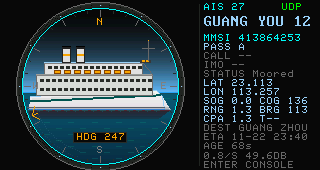
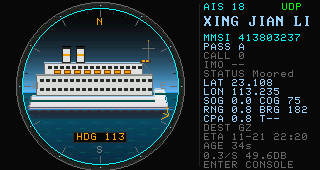
Shape the AIS hull bow and stern
Add a raised forecastle break and a raked stem, take the stern in with a
shaded transom, and keep the bulwark rail along both deck edges. Refresh the
dossier screenshot with XING JIAN LI.

diff --git a/src/ui/ais_portrait.cpp b/src/ui/ais_portrait.cpp
@@ -17,8 +17,9 @@ constexpr int WATERLINE = 109;
 constexpr int DECK = 96;
 
 constexpr int STERN = 30;
-constexpr int BOW_DECK = 156;
-constexpr int BOW_TOP = 90;
+constexpr int BOW_DECK = 164;
+constexpr int BOW_TOP = 89;
+constexpr int FORECASTLE_X = 154;
 constexpr int KEEL = 118;
 
 constexpr double kPi = 3.14159265358979323846;
@@ -154,20 +155,20 @@ uint16_t seaColorAt(int y) {
 }
 
 int deckY(int x) {
-    return DECK - (x - STERN) * (DECK - BOW_TOP) / (BOW_DECK - STERN);
+    return (x <= FORECASTLE_X) ? DECK : BOW_TOP;
 }
 
 /** Rows of the hull: deck sheer at the bow, raked stem and a short keel. */
 void hullEdges(int y, int& left, int& right) {
     if (y < DECK) {
-        left = STERN + (DECK - y) * (BOW_DECK - STERN) / (DECK - BOW_TOP);
-        right = BOW_DECK + (y - BOW_TOP) * 6 / (DECK - BOW_TOP);
+        left = FORECASTLE_X;
+        right = BOW_DECK;
     } else if (y <= WATERLINE) {
-        left = STERN - (y - DECK) * 3 / (KEEL - DECK);
-        right = BOW_DECK + 6 + (y - DECK) * 8 / (WATERLINE - DECK);
+        left = STERN - (y - DECK) * 5 / (KEEL - DECK);
+        right = BOW_DECK + (y - DECK) * 4 / (WATERLINE - DECK);
     } else {
-        left = STERN - 3 - (y - WATERLINE);
-        right = BOW_DECK + 14 - (y - WATERLINE) * 12 / (KEEL - WATERLINE);
+        left = STERN - 5 - (y - WATERLINE) / 2;
+        right = BOW_DECK + 4 - (y - WATERLINE) * 10 / (KEEL - WATERLINE);
     }
 }
 
@@ -203,9 +204,27 @@ void drawHull(Canvas& c, bool whiteHull, uint16_t upper, uint16_t lower,
     }
 
     // Deck sheer and stem highlight.
-    c.line(STERN, DECK, BOW_DECK, BOW_TOP, c.highlight);
-    c.line(BOW_DECK, BOW_TOP, BOW_DECK + 6, DECK, c.highlight);
-    c.line(BOW_DECK + 6, DECK, BOW_DECK + 8, WATERLINE, c.highlight);
+    c.hline(STERN, FORECASTLE_X, DECK, c.highlight);
+    c.vline(FORECASTLE_X, BOW_TOP, DECK, c.highlight);
+    c.hline(FORECASTLE_X, BOW_DECK, BOW_TOP, c.highlight);
+    c.line(BOW_DECK, BOW_TOP, BOW_DECK + 4, WATERLINE, c.highlight);
+
+    // Bulwark rail just above the deck edges.
+    for (int x = STERN + 2; x <= FORECASTLE_X; ++x) {
+        c.put(x, DECK - 1, whiteHull ? 0xCE79 : 0x4A69);
+    }
+    for (int x = FORECASTLE_X + 1; x <= BOW_DECK; ++x) {
+        c.put(x, BOW_TOP - 1, whiteHull ? 0xCE79 : 0x4A69);
+    }
+
+    // Transom shading at the stern.
+    for (int y = DECK; y <= WATERLINE; ++y) {
+        int l = 0;
+        int r = 0;
+        hullEdges(y, l, r);
+        c.put(l, y, c.dim);
+        c.put(l + 1, y, whiteHull ? 0x9CF3 : 0x2104);
+    }
 
     // Hull plating seams (steel hulls only).
     if (!whiteHull) {
